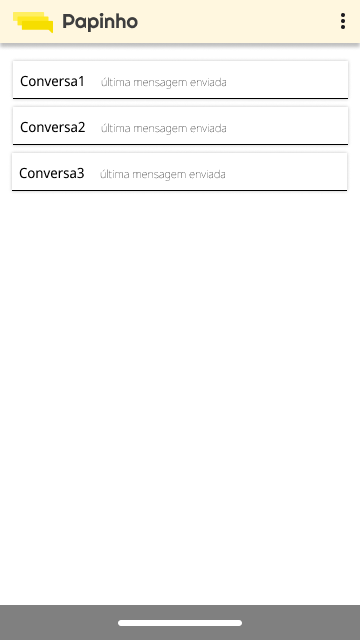
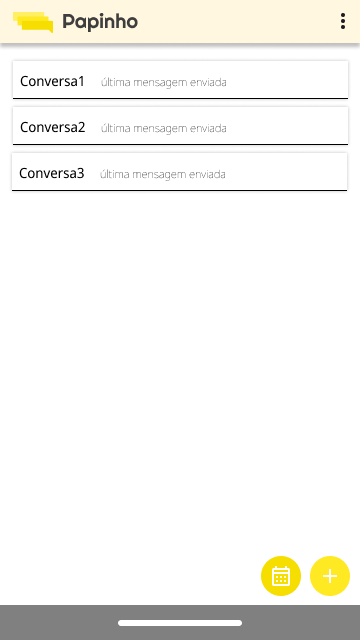
Adicionando funcionalidades do CRUD e dos layouts

Changed region(s): [[0.7028, 0.8438, 0.9778, 0.9375]]

diff --git a/app/src/main/java/com/demo/projeto_pi3a/MainActivity.java b/app/src/main/java/com/demo/projeto_pi3a/MainActivity.java
@@ -1,7 +1,12 @@
 package com.demo.projeto_pi3a;
 
+import android.app.Notification;
+import android.app.PendingIntent;
 import android.os.Bundle;
+import android.os.Parcel;
+import android.util.Log;
 import android.view.View;
+import android.widget.EditText;
 
 import androidx.activity.EdgeToEdge;
 import androidx.appcompat.app.AppCompatActivity;
@@ -9,34 +14,34 @@ import androidx.core.graphics.Insets;
 import androidx.core.view.ViewCompat;
 import androidx.core.view.WindowInsetsCompat;
 
-import com.demo.projeto_pi3a.R;
 import papinho.app.backend.model.*;
 import papinho.app.backend.dao.*;
 
 public class MainActivity extends AppCompatActivity {
 
     protected static boolean usuarioLogado = false;
+    protected static boolean usuarioInativado = false;
 
     @Override
     protected void onCreate(Bundle savedInstanceState) {
         super.onCreate(savedInstanceState);
         EdgeToEdge.enable(this);
 
-//        if(usuarioLogado == false) {
-//            setContentView(R.layout.activity_cadastro);
-//            ViewCompat.setOnApplyWindowInsetsListener(findViewById(R.id.main_cadastro), (v, insets) -> {
-//              Insets systemBars = insets.getInsets(WindowInsetsCompat.Type.systemBars());
-//              v.setPadding(systemBars.left, systemBars.top, systemBars.right, systemBars.bottom);
-//              return insets;
-//            });
-//        } else {
+        if(usuarioLogado == false) {
+            setContentView(R.layout.activity_cadastro);
+            ViewCompat.setOnApplyWindowInsetsListener(findViewById(R.id.main_cadastro), (v, insets) -> {
+              Insets systemBars = insets.getInsets(WindowInsetsCompat.Type.systemBars());
+              v.setPadding(systemBars.left, systemBars.top, systemBars.right, systemBars.bottom);
+              return insets;
+            });
+        } else {
             setContentView(R.layout.activity_main);
             ViewCompat.setOnApplyWindowInsetsListener(findViewById(R.id.main), (v, insets) -> {
                 Insets systemBars = insets.getInsets(WindowInsetsCompat.Type.systemBars());
                 v.setPadding(systemBars.left, systemBars.top, systemBars.right, systemBars.bottom);
                 return insets;
             });
-//        }
+        }
     }
 
     @Override
@@ -81,6 +86,92 @@ public class MainActivity extends AppCompatActivity {
 
     public void btnGotoConfiguracoesActivity(View view){
         setContentView(R.layout.activity_configuracoes);
+    }
+
+    // telas de cadastro e login - formulário
+    public void btnCadastraUsuario(View view){
+        UsuarioDAO usuarioDAO = new UsuarioDAO(this);
+        UsuarioVO usuarioVO = new UsuarioVO();
+
+        // campo de cadastro
+        EditText defNome = (EditText) findViewById(R.id.defNome);
+        usuarioVO.setNome(defNome.getText().toString());
+
+        EditText defTelefone = (EditText) findViewById(R.id.defTelefone);
+        usuarioVO.setTelefone(defTelefone.getText().toString());
+
+        EditText defEmail = (EditText) findViewById(R.id.defEmail);
+        usuarioVO.setEmail(defEmail.getText().toString());
+
+        EditText defPassword = (EditText) findViewById(R.id.defPassword);
+        usuarioVO.setPalavraPasse(defPassword.getText().toString());
+        usuarioDAO.addUsuario(usuarioVO);
+
+        usuarioLogado = true;
+        this.btnReturnBackMainActivity(view);
+
+        // -----------------------------------------------------------
+        Log.d("Insert: ", "Registros no banco de dados com sucesso.");
+    }
+
+    public void btnLoginUsuario(View view){
+        UsuarioDAO usuarioDAO = new UsuarioDAO(this);
+        UsuarioVO usuarioVO = new UsuarioVO();
+
+        // campo de login
+        EditText enterNome = (EditText) findViewById(R.id.enterName);
+        usuarioVO.setNome(enterNome.getText().toString());
+
+        EditText enterPassword = (EditText) findViewById(R.id.enterPassword);
+        usuarioVO.setPalavraPasse(enterPassword.getText().toString());
+        UsuarioVO verificaUsuario = usuarioDAO.getUsuario(usuarioVO.getNome(), usuarioVO.getPalavraPasse());
+
+        if(verificaUsuario.getNome() == usuarioVO.getNome() && verificaUsuario.getPalavraPasse() == usuarioVO.getPalavraPasse()) {
+            this.btnReturnBackMainActivity(view);
+            usuarioLogado = true;
+        } else {
+            Log.w("Warn Form: ", "Dados Incorretos");
+        }
+
+        // -----------------------------------------------------------
+        Log.d("Get: ", "Leitura do banco de dados com sucesso.");
+    }
+
+    public void btnUpdateUsuario(View view){
+//        // update
+//        EditText campoAluno = (EditText) findViewById(R.id.updateDadoNome);
+//        alunoVO.setNome(campoAluno.getText().toString());
+//
+//        EditText campoMatricula = (EditText) findViewById(R.id.updateDadoMatricula);
+//        alunoVO.setMatricula(campoMatricula.getText().toString());
+//
+//        EditText campoEmail = (EditText) findViewById(R.id.updateDadoEmail);
+//        alunoVO.setEmail(campoEmail.getText().toString());
+//        alunoDAO.updateAluno(alunoVO);
+//
+//        // -----------------------------------------------------------
+//        Log.d("Update: ", "Atualização dos registros no banco de dados com sucesso.");
+    }
+
+    public void btnDeleteUsuario(View view){
+//        AlunoDAO alunoDAO = new AlunoDAO(this);
+//        AlunoVO alunoVO = new AlunoVO();
+//
+//        // delete
+//        EditText campoAluno = (EditText) findViewById(R.id.deleteDadoId);
+//        alunoVO.setId(Integer.parseInt(campoAluno.getText().toString()));
+//        alunoDAO.deleteAluno(alunoVO);
+//
+//        // -----------------------------------------------------------
+//        Log.d("Delete: ", "Remoção do banco de dados feita com sucesso.");
+        usuarioLogado = false;
+    }
+
+    // funcionalidade em análise para implementação
+    public void btnStandByUsuario(View view){
+        usuarioInativado = true;
+        usuarioLogado = false;
+        setContentView(R.layout.activity_cadastro);
     }
 
 }

diff --git a/app/src/main/java/papinho/app/backend/dao/UsuarioDAO.java b/app/src/main/java/papinho/app/backend/dao/UsuarioDAO.java
@@ -64,13 +64,13 @@ public class UsuarioDAO extends SQLiteOpenHelper {
         db.close();
     }
 
-    public UsuarioVO getUsuario(int id){
+    public UsuarioVO getUsuario(String nome, String password){
         SQLiteDatabase db = this.getReadableDatabase();
 
         Cursor cursor = db.query(TB_USUARIOS,
-                new String[] {KEY_ID, NOME},
-                KEY_ID + "= ? ",
-                new String[] { String.valueOf(id)},
+                new String[] {NOME, PALAVRA_PASSE},
+                NOME + "= ? ",
+                new String[] { String.valueOf(nome), String.valueOf(password)},
                 null, null, null, null);
 
         if(cursor != null){
@@ -80,10 +80,8 @@ public class UsuarioDAO extends SQLiteOpenHelper {
         UsuarioVO usuarioVO = new UsuarioVO();
         usuarioVO.setId(Integer.parseInt(cursor.getString(0)));
         usuarioVO.setNome(cursor.getString(1));
-        usuarioVO.setEmail(cursor.getString(2));
-        usuarioVO.setTelefone(cursor.getString(3));
-        usuarioVO.setPalavraPasse(cursor.getString(4));
-        usuarioVO.setConfiguracoes(cursor.getString(5));
+        usuarioVO.setTelefone(cursor.getString(2));
+        usuarioVO.setPalavraPasse(cursor.getString(3));
         return usuarioVO;
     }
 
